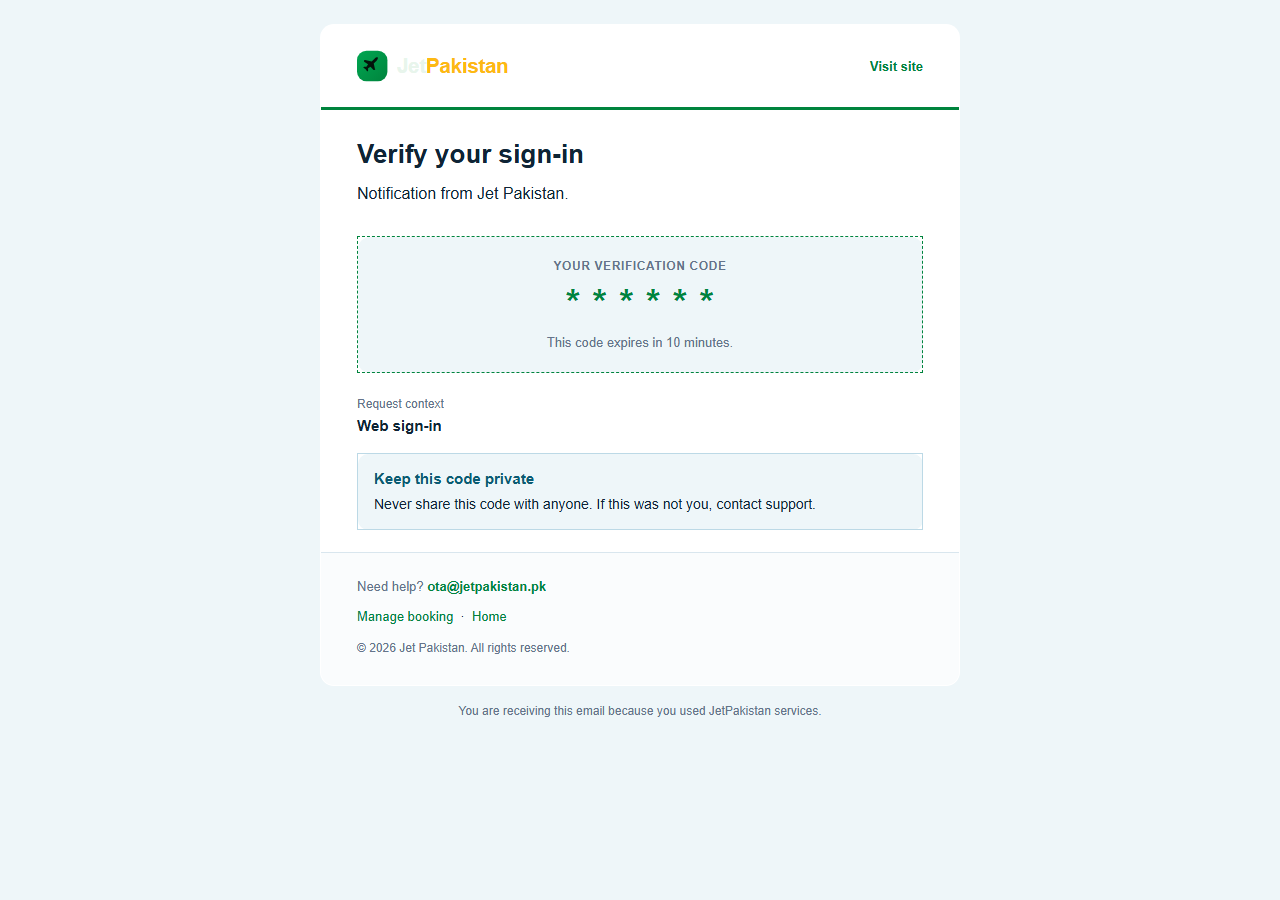
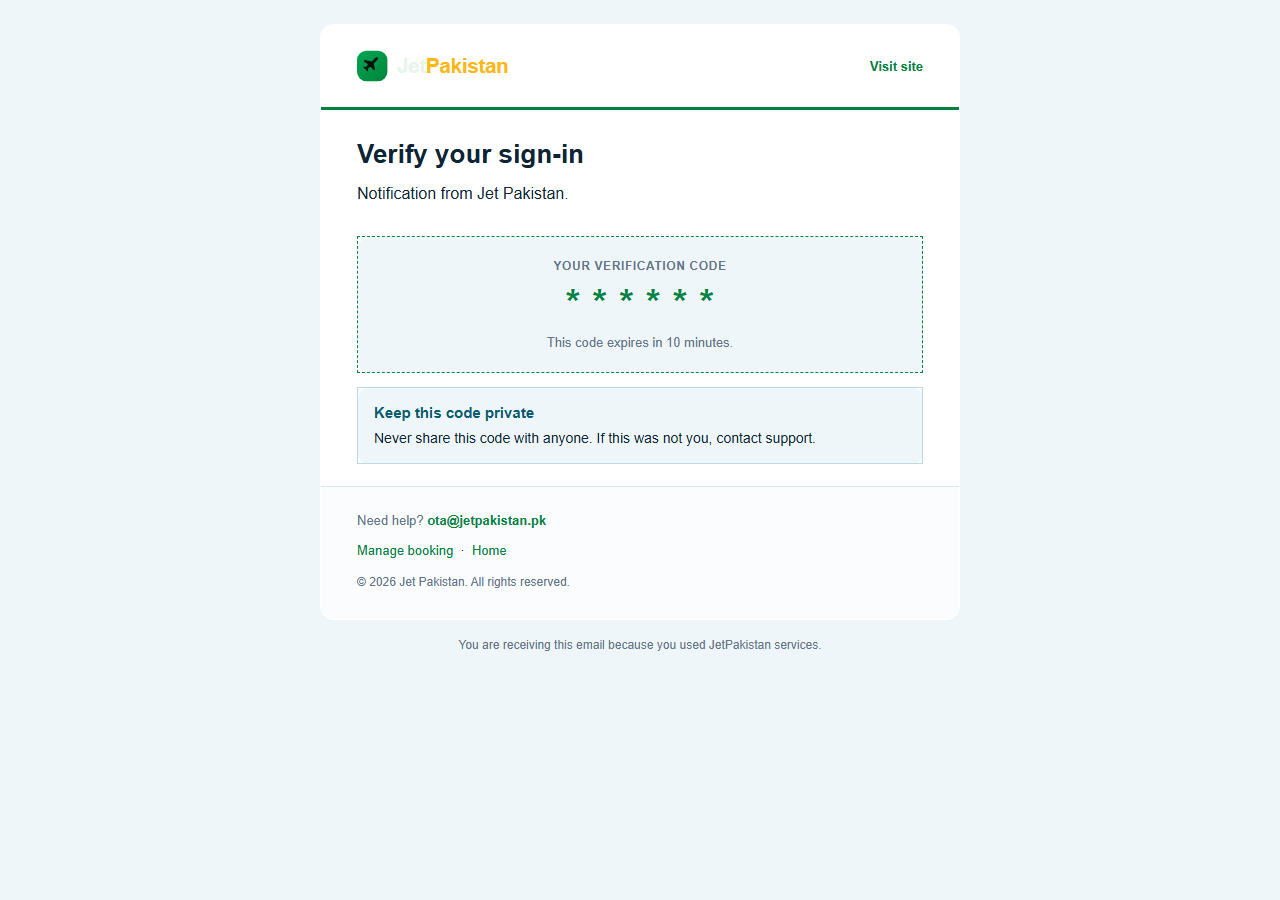
fix(email): remove OTP Request context / Web sign-in
OTP security mail is intentionally simple: code card + privacy notice only.
Harness now asserts absence of Request context on login OTP fixtures.

Changed region(s): [[0.2812, 0.5289, 0.625, 0.7467], [0.2812, 0.4356, 0.625, 0.4978], [0.375, 0.7778, 0.625, 0.8089]]

diff --git a/docs/evidence/jp-email-p2/fixtures/login-otp-current.html b/docs/evidence/jp-email-p2/fixtures/login-otp-current.html
@@ -85,15 +85,6 @@
                             </td>
         </tr>
     </table>
-
-    <table role="presentation" cellpadding="0" cellspacing="0" border="0" width="100%" style="margin:0 0 8px 0;">
-        <tr>
-        <td width="100%" valign="top" style="padding:8px 0; font-family:Arial,Helvetica,sans-serif;">
-            <div style="font-size:12px; line-height:18px; color:#64748b; margin:0 0 2px 0;">Request context</div>
-            <div class="jetpk-long" style="font-size:15px; line-height:22px; color:#0f2435; font-weight:bold; word-break:break-word; overflow-wrap:anywhere; -ms-word-break:break-all;">Web sign-in</div>
-        </td>
-    </tr>
-    </table>
                                                                 <table role="presentation" cellpadding="0" cellspacing="0" border="0" width="100%" style="margin:6px 0 14px 0;">
         <tr>
             <td style="background-color:#eef6f9; border:1px solid #bcd9e6; border-radius:10px; padding:14px 16px;">

diff --git a/tests/Unit/Emails/JetpkEmailInfoRowStackedLayoutTest.php b/tests/Unit/Emails/JetpkEmailInfoRowStackedLayoutTest.php
@@ -14,16 +14,16 @@ class JetpkEmailInfoRowStackedLayoutTest extends TestCase
     public function test_info_row_is_single_full_width_stacked_cell(): void
     {
         $html = View::make('emails.themes.jetpakistan.partials.info-row', [
-            'label' => 'Request context',
-            'value' => 'Web sign-in',
+            'label' => 'Booking reference',
+            'value' => 'JP-VERY-LONG-REFERENCE-VALUE-FOR-WRAP',
             'emailBrand' => [
                 'text_color' => '#0f2435',
                 'muted_color' => '#64748b',
             ],
         ])->render();
 
-        $this->assertStringContainsString('Request context', $html);
-        $this->assertStringContainsString('Web sign-in', $html);
+        $this->assertStringContainsString('Booking reference', $html);
+        $this->assertStringContainsString('JP-VERY-LONG-REFERENCE-VALUE-FOR-WRAP', $html);
         $this->assertStringContainsString('width="100%"', $html);
         $this->assertStringContainsString('word-break:break-word', $html);
         $this->assertStringNotContainsString('white-space:nowrap', $html);

diff --git a/resources/views/emails/themes/jetpakistan/partials/blocks/otp.blade.php b/resources/views/emails/themes/jetpakistan/partials/blocks/otp.blade.php
@@ -6,7 +6,6 @@
     $bgSoft = $brand['background_color'] ?? '#eef6f9';
     $code = $sec['otp'] ?? ($otpCode ?? null);
     $expiry = $sec['expiry_minutes'] ?? ($otpExpiryMinutes ?? null);
-    $context = $sec['context'] ?? null;
 @endphp
 
 @if(!empty($code))
@@ -23,10 +22,4 @@
     </table>
 @else
     @include('emails.themes.jetpakistan.partials.alert-box', ['type' => 'warning', 'title' => 'Code not available', 'message' => 'Your verification code could not be displayed. Please request a new code.'])
-@endif
-
-@if(!empty($context))
-    <table role="presentation" cellpadding="0" cellspacing="0" border="0" width="100%" style="margin:0 0 8px 0;">
-        @include('emails.themes.jetpakistan.partials.info-row', ['label' => 'Request context', 'value' => $context, 'emailBrand' => $brand])
-    </table>
 @endif

diff --git a/tests/Feature/Auth/LoginOtpMailRenderedMimeCanonicalTest.php b/tests/Feature/Auth/LoginOtpMailRenderedMimeCanonicalTest.php
@@ -48,5 +48,11 @@ class LoginOtpMailRenderedMimeCanonicalTest extends TestCase
             $html
         );
         $this->assertStringContainsString('654321', $html);
+        $this->assertStringContainsString('Verify your sign-in', $html);
+        $this->assertStringContainsString('Your verification code', $html);
+        $this->assertStringContainsString('Keep this code private', $html);
+        $this->assertStringNotContainsString('Request context', $html);
+        $this->assertStringNotContainsString('Web sign-in', $html);
+        $this->assertStringNotContainsString('Request Context', $html);
     }
 }

diff --git a/app/Support/Emails/JetpkEmailSampleData.php b/app/Support/Emails/JetpkEmailSampleData.php
@@ -100,7 +100,7 @@ trait JetpkEmailSampleData
                     'preheaderText' => 'Use this code to verify your sign-in.',
                     'headline'      => 'Verify your sign-in',
                     'introText'     => 'Use the one-time code below to continue.',
-                    'security'      => ['otp' => '482913', 'expiry_minutes' => 10, 'context' => 'Web sign-in'],
+                    'security'      => ['otp' => '482913', 'expiry_minutes' => 10],
                 ]);
 
             case 'sign_in_success':

diff --git a/app/Support/Emails/AuthEmailRenderer.php b/app/Support/Emails/AuthEmailRenderer.php
@@ -100,7 +100,6 @@ class AuthEmailRenderer
                     'security' => [
                         'otp' => $otpCode,
                         'expiry_minutes' => $expiryMinutes,
-                        'context' => 'Web sign-in',
                     ],
                     'otpCode' => $otpCode,
                     'otpExpiryMinutes' => $expiryMinutes,
